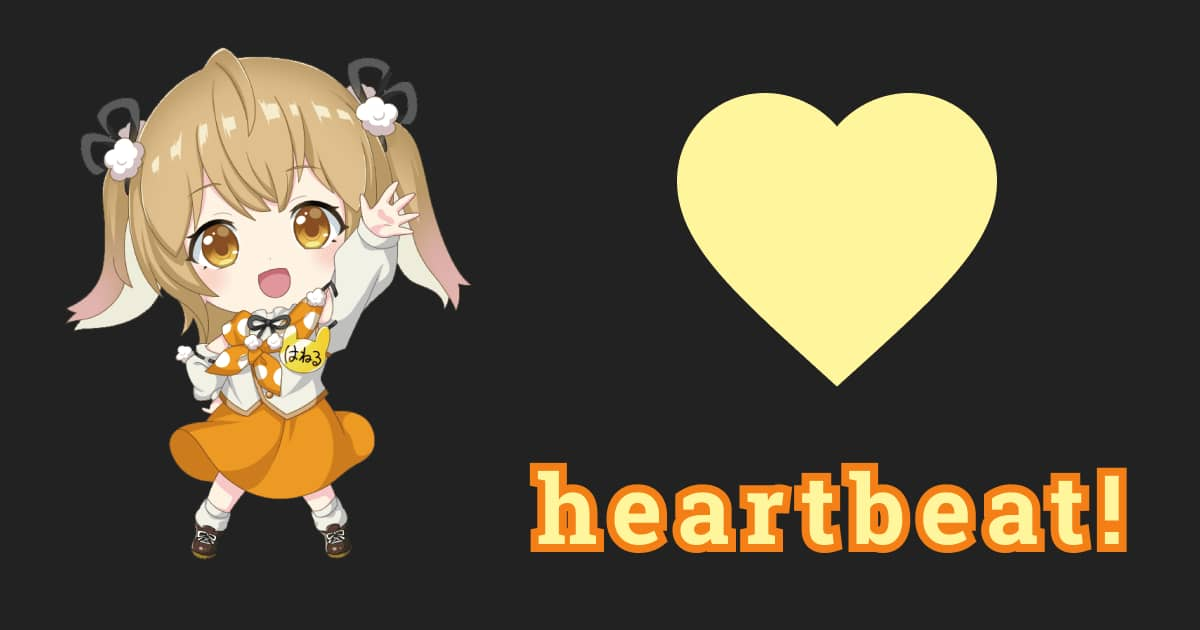
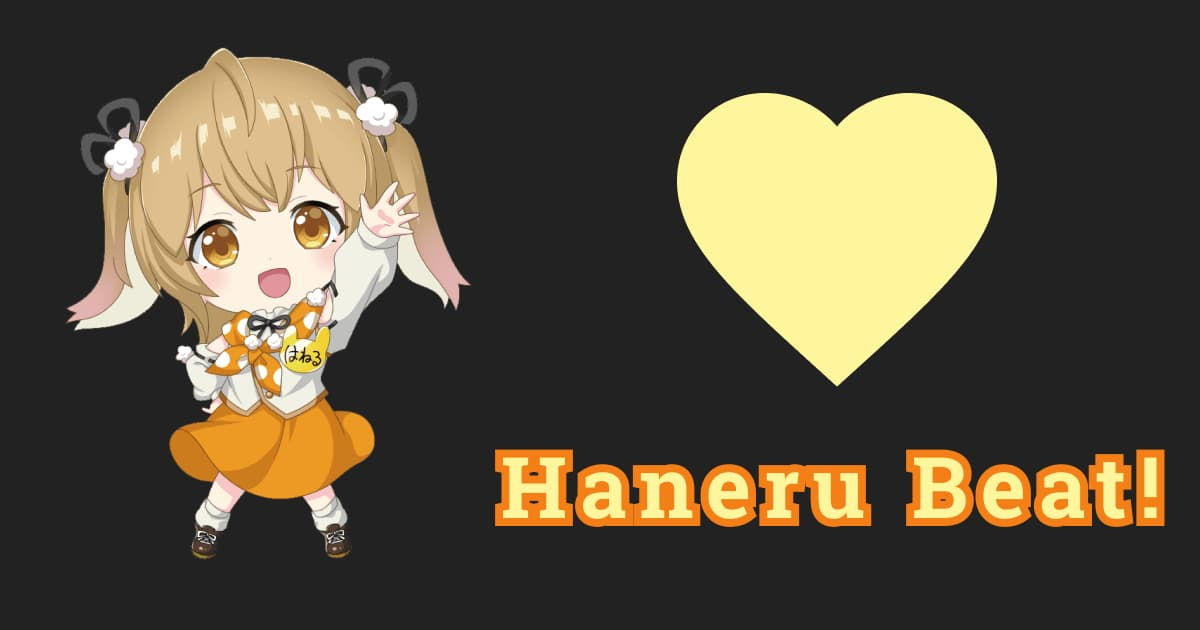
chore: rename project (inabagumi/hanerubeat#104)

Changed region(s): [[0.4008, 0.6937, 0.9867, 0.9048]]

diff --git a/apps/hanerubeat/vue.config.js b/apps/hanerubeat/vue.config.js
@@ -29,7 +29,7 @@ module.exports = {
       start_url: '/'
     },
     msTileColor: '#222',
-    name: 'heartbeat!',
+    name: 'Haneru Beat!',
     themeColor: '#fff59d',
     workboxOptions: {
       clientsClaim: true,
